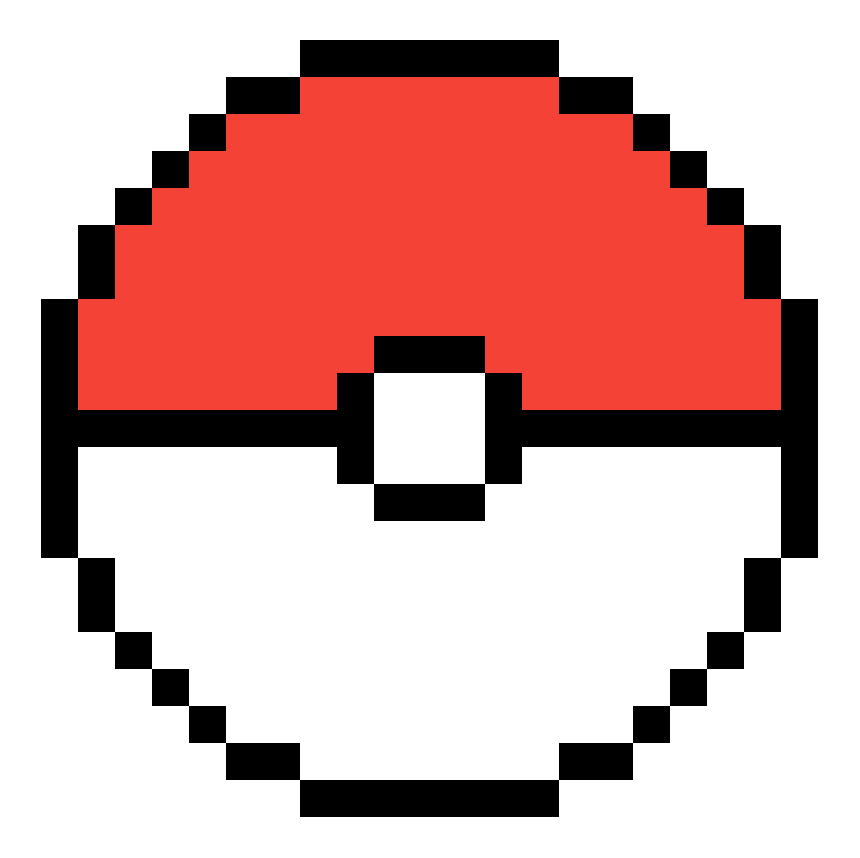
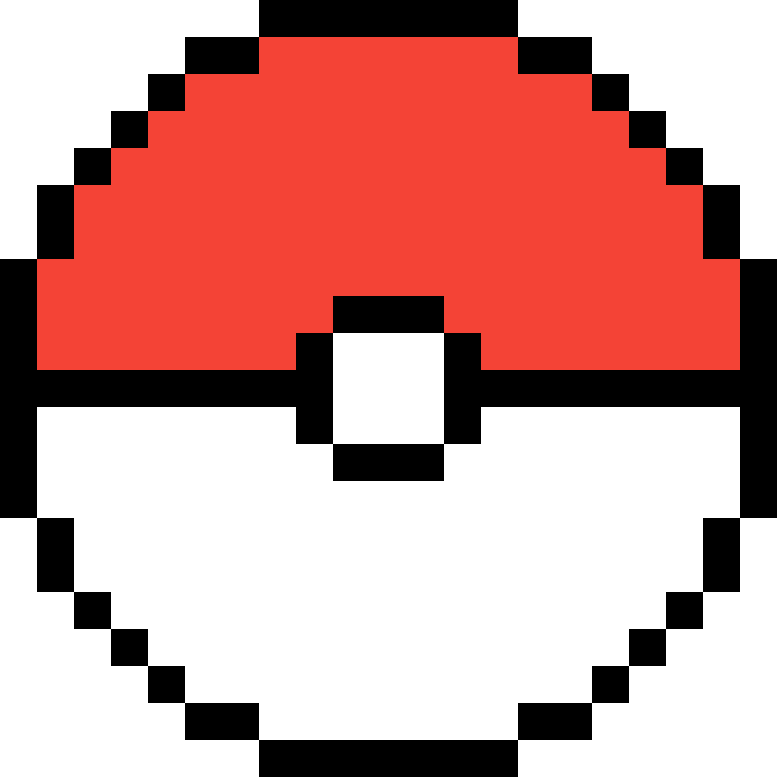
1. renamed the character sprite to ethan 2. converted ethan's sprite to .png format 3. added transparency to ethan's sprite 4. the canva in both sprites now fit optimally

Changed region(s): [[0.0, 0.0, 1.0, 1.0], [0.0927, 0.3707, 0.8958, 0.6178]]

diff --git a/index.html b/index.html
@@ -42,7 +42,7 @@
     <main class="hero">
       <header class="hero-elements">
         <img
-          src="pictures/sprite.jpg"
+          src="pictures/ethan.png"
           alt="Imran the Pokemon trainer"
           class="profile-pic"
         />
